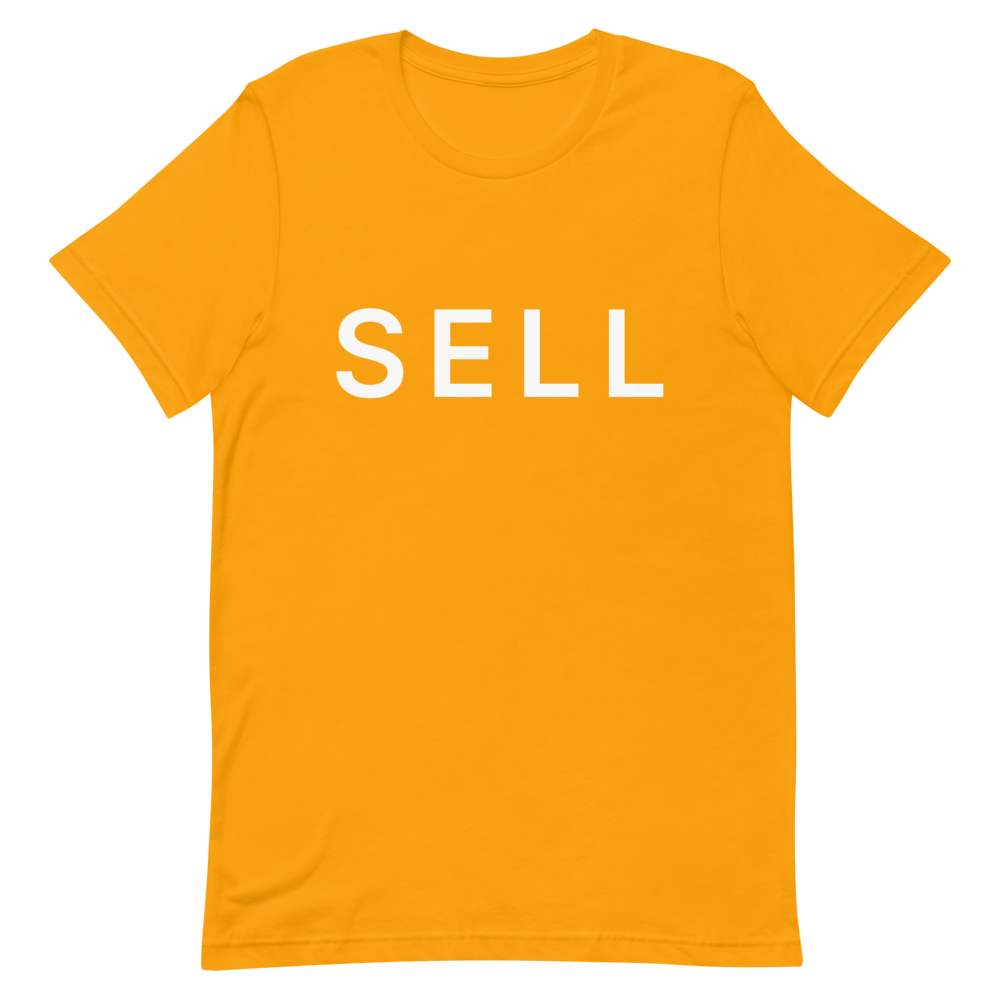
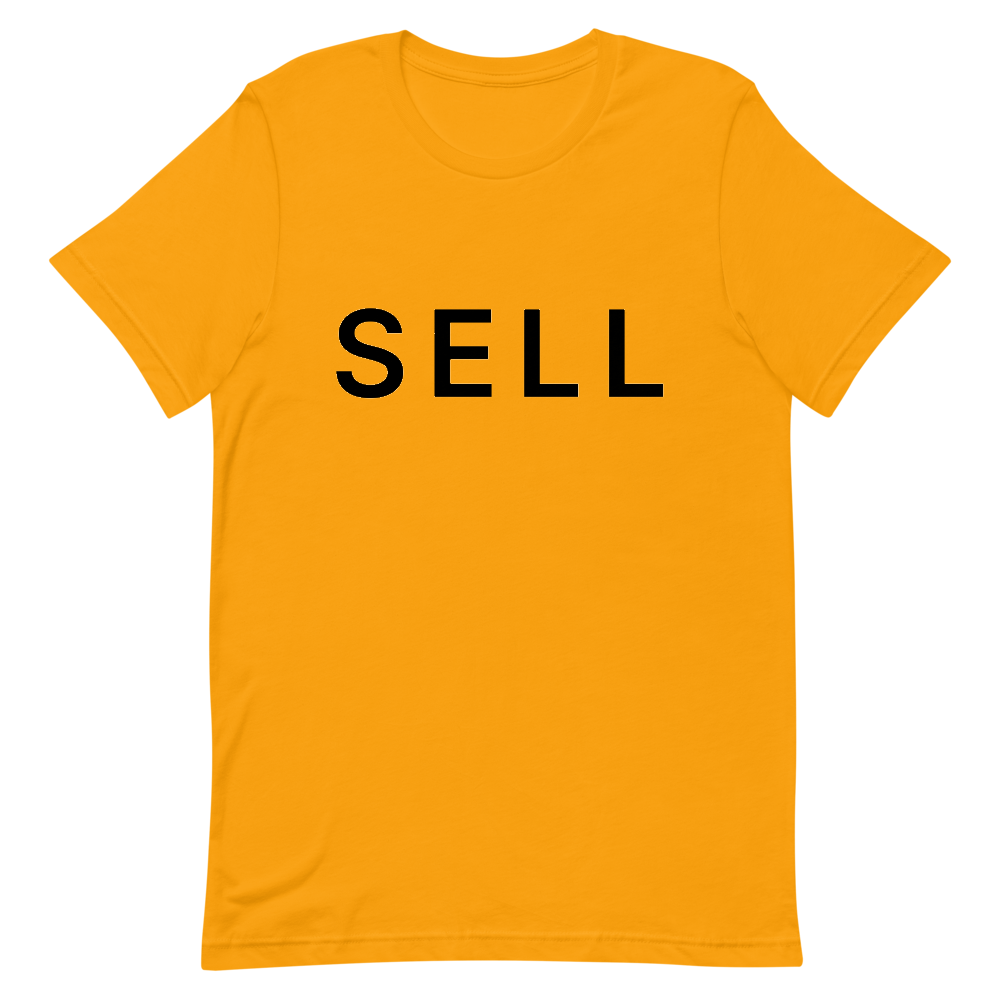
Use black lettering on Pittsburgh tee

Changed region(s): [[0.527, 0.31, 0.682, 0.403], [0.434, 0.31, 0.496, 0.403], [0.341, 0.31, 0.403, 0.403]]

diff --git a/components/ProductPage.tsx b/components/ProductPage.tsx
@@ -73,7 +73,7 @@ export default function ProductPage({ slug, style }: { slug: string; style: Styl
   const related = [...sameCity, ...TEAMS.filter((t) => t.division === team.division && t.market !== team.market)].slice(0, 4);
   if (!stylesFor(team).includes(style)) notFound();
   const noun = STYLE[style].label.toLowerCase();
-  const printColor = team.slug === "nfl-cincinnati" && style === "tee" ? "black" : team.slug === "nfl-cleveland" && style === "tee" ? "orange" : team.slug === "nfl-baltimore" && style === "tee" ? "metallic gold" : PRINT_COLOR[style];
+  const printColor = (team.slug === "nfl-cincinnati" || team.slug === "nfl-pittsburgh") && style === "tee" ? "black" : team.slug === "nfl-cleveland" && style === "tee" ? "orange" : team.slug === "nfl-baltimore" && style === "tee" ? "metallic gold" : PRINT_COLOR[style];
   const printInk = printColor === "black" ? "#000000" : printColor === "orange" ? "#FF3C00" : printColor === "metallic gold" ? "#C5A253" : STYLE[style].ink;
 
   return (
@@ -112,7 +112,7 @@ export default function ProductPage({ slug, style }: { slug: string; style: Styl
               <summary>Why SELL</summary>
               <div className="content">
                 Modeled on the shirt Oakland fans wore to the 2023 reverse boycott.{" "}
-                {WHY[style] ?? (team.slug === "nfl-cincinnati" && style === "tee" ? "One word in black on Bengals orange." : team.slug === "nfl-cleveland" && style === "tee" ? "One word in orange on Browns brown." : team.slug === "nfl-baltimore" && style === "tee" ? "One word in metallic gold on Ravens purple." : "One word in white on your team colors.")} It says what a lot of {team.market} fans are thinking &mdash; loud enough to be
+                {WHY[style] ?? ((team.slug === "nfl-cincinnati" || team.slug === "nfl-pittsburgh") && style === "tee" ? "One word in black on your team color." : team.slug === "nfl-cleveland" && style === "tee" ? "One word in orange on Browns brown." : team.slug === "nfl-baltimore" && style === "tee" ? "One word in metallic gold on Ravens purple." : "One word in white on your team colors.")} It says what a lot of {team.market} fans are thinking &mdash; loud enough to be
                 seen from the owner&rsquo;s suite. <Link href="/story" style={{ textDecoration: "underline" }}>Read the story.</Link>
               </div>
             </details>

diff --git a/app/api/print/[slug]/route.ts b/app/api/print/[slug]/route.ts
@@ -6,6 +6,6 @@ export async function GET(_req: Request, { params }: { params: Promise<{ slug: s
   const slug = (await params).slug.replace(/\.png$/, "");
   const team = getTeam(slug);
   if (!team) return new Response("Not found", { status: 404 });
-  const ink = slug === "nfl-cincinnati" ? "#000000" : slug === "nfl-cleveland" ? "#FF3C00" : slug === "nfl-baltimore" ? "#C5A253" : undefined;
+  const ink = slug === "nfl-cincinnati" || slug === "nfl-pittsburgh" ? "#000000" : slug === "nfl-cleveland" ? "#FF3C00" : slug === "nfl-baltimore" ? "#C5A253" : undefined;
   return printFile("tee", undefined, ink);
 }

diff --git a/lib/art.ts b/lib/art.ts
@@ -1,4 +1,4 @@
 // Bump when the shirt artwork or photos change: Printful caches print files by
 // URL and next/image caches optimized photos by URL, so a new number makes
 // both fetch fresh copies.
-export const ART_VERSION = 17;
+export const ART_VERSION = 18;
